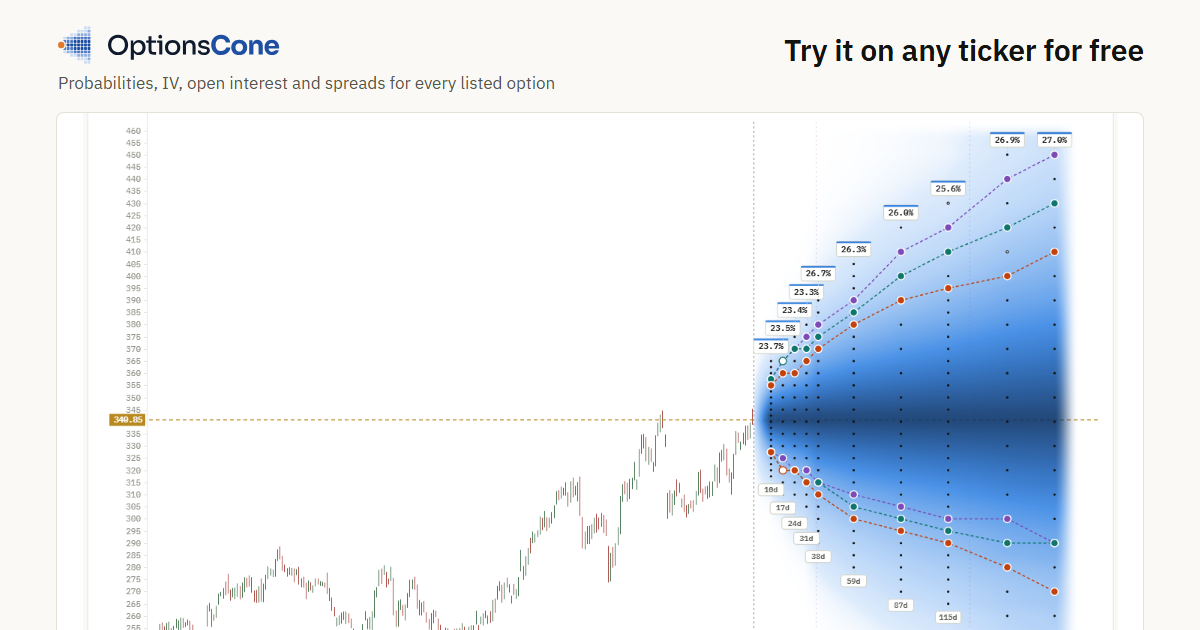
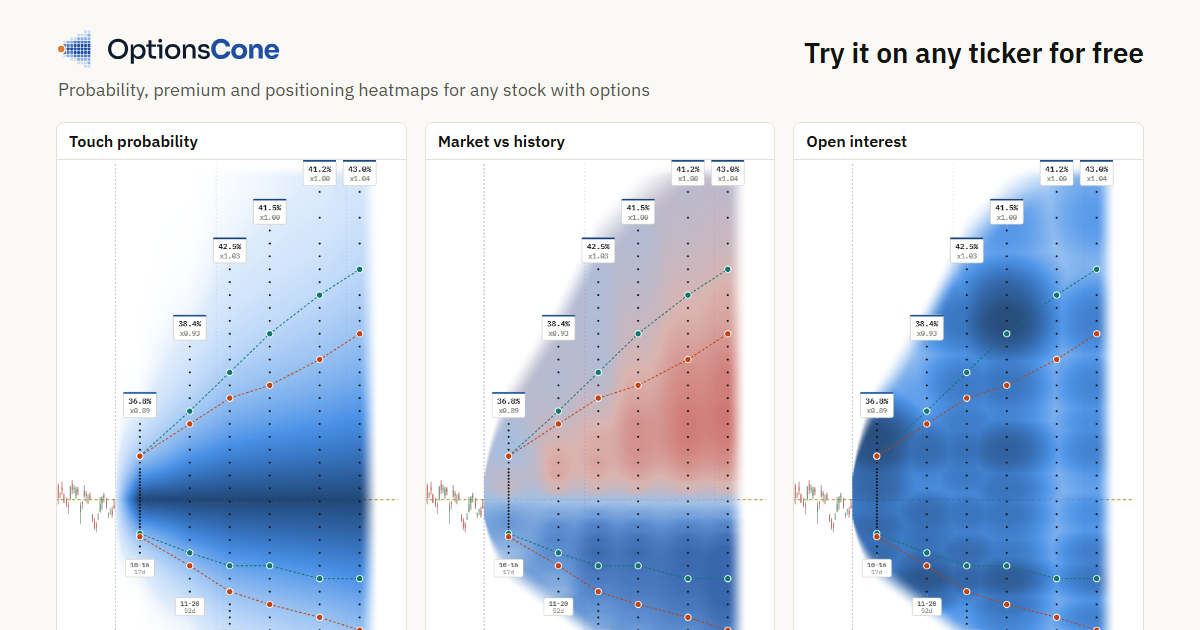
Home page: six maps for AVGO as the hero, new headline, updated questions and map descriptions

diff --git a/docs/index.html b/docs/index.html
@@ -4,16 +4,16 @@
 <meta charset="utf-8">
 <meta name="viewport" content="width=device-width, initial-scale=1">
 <title>OptionsCone: probability, premium and positioning heatmaps</title>
-<meta name="description" content="Free Windows app: probability, premium and positioning heatmaps for every listed option, measured against ten years of the stock&#39;s own history.">
+<meta name="description" content="Free Windows app: probability, premium and positioning heatmaps for any stock with options, measured against ten years of the stock&#39;s own history.">
 <link rel="canonical" href="https://nikkn.github.io/OptionsCone/">
 <meta name="google-site-verification" content="AMuyXyZixV_yJbMoVUShqFuyZB4kxgZxZLLErU_1Yw0" />
 <link rel="icon" href="brand/favicon-16.svg" type="image/svg+xml">
 <link rel="apple-touch-icon" href="brand/apple-touch-icon.png">
 <meta property="og:type" content="website">
 <meta property="og:title" content="OptionsCone: probability, premium and positioning heatmaps">
-<meta property="og:description" content="Every listed option as heatmaps on the price chart, measured against the stock&#39;s own history. Free and open source.">
+<meta property="og:description" content="The option chain as heatmaps on the price chart, measured against the stock&#39;s own history. Free and open source.">
 <meta property="og:url" content="https://nikkn.github.io/OptionsCone/">
-<meta property="og:image" content="https://nikkn.github.io/OptionsCone/img/social.png?v=4">
+<meta property="og:image" content="https://nikkn.github.io/OptionsCone/img/social.png?v=5">
 <meta property="og:image:width" content="1200">
 <meta property="og:image:height" content="630">
 <meta property="og:image:alt" content="OptionsCone: a probability cone over the listed option strikes of a stock, with implied and historical contour lines.">
@@ -35,7 +35,7 @@
   "license": "https://www.gnu.org/licenses/agpl-3.0.html",
   "downloadUrl": "https://github.com/nikkn/OptionsCone/releases/latest",
   "codeRepository": "https://github.com/nikkn/OptionsCone",
-  "screenshot": "https://nikkn.github.io/OptionsCone/img/app.png",
+  "screenshot": "https://nikkn.github.io/OptionsCone/img/avgo/app.png",
   "author": { "@type": "Person", "name": "Nikolai Alexander" }
 }
 </script>
@@ -80,8 +80,8 @@
 <div class="wrap">
 
   <div class="hero">
-    <h1>Probability, premium and positioning heatmaps for every listed option.</h1>
-    <p class="lede">OptionsCone turns the full option chain into heatmaps on the price chart: touch and expiry probabilities, implied volatility, open interest, spreads, time value and premium relative to risk for every listed strike and expiry. It compares what the option market implies with what the stock&#39;s own history says. For option traders and for anyone who holds stocks. Free and open source, for Windows.</p>
+    <h1>Probability, premium and positioning heatmaps for any stock with options.</h1>
+    <p class="lede">OptionsCone turns the option chain into heatmaps on the price chart: touch and expiry probabilities, implied volatility, open interest, spreads, time value and premium relative to risk, across the option chain of the next six months. It compares what the option market implies with what the stock&#39;s own history says. For option traders and for anyone who holds stocks. Free and open source, for Windows.</p>
     <div class="btn-row">
       <a class="btn primary" href="https://github.com/nikkn/OptionsCone/releases/latest">Download for Windows</a>
       <a class="btn" href="https://github.com/nikkn/OptionsCone">Source code</a>
@@ -89,13 +89,22 @@
     </div>
   </div>
 
-  <figure class="shot shot-hero">
-    <img src="img/app.png" width="1400" height="1318" alt="OptionsCone showing Apple (AAPL): ten years of daily candles, and to the right of today a blue probability cone over the listed strikes with implied, 5-year and 10-year contour lines at 30% touch probability.">
-  </figure>
+  <div class="maps">
+    <a class="map" href="img/avgo/chart-p.png"><span>Touch probability</span><img src="img/avgo/cone-p.png" width="550" height="840" alt="Broadcom (AVGO), Touch probability: dark near the money, fading where a touch becomes unlikely."></a>
+    <a class="map" href="img/avgo/chart-iv.png"><span>Implied volatility</span><img src="img/avgo/cone-iv.png" width="550" height="840" alt="Broadcom (AVGO), Implied volatility per contract: skew and term structure."></a>
+    <a class="map" href="img/avgo/chart-oi.png"><span>Open interest</span><img src="img/avgo/cone-oi.png" width="550" height="840" alt="Broadcom (AVGO), Open interest: where the large positions sit."></a>
+    <a class="map" href="img/avgo/chart-tv.png"><span>Time value per day</span><img src="img/avgo/cone-tv.png" width="550" height="840" alt="Broadcom (AVGO), Time value per remaining day, darkest near the money for short expiries."></a>
+    <a class="map" href="img/avgo/chart-gap.png"><span>Market vs history</span><img src="img/avgo/cone-gap.png" width="550" height="840" alt="Broadcom (AVGO), Implied minus historical touch probability: blue where the market prices more risk than history, red where less."></a>
+    <a class="map" href="img/avgo/chart-vpr.png"><span>Premium per unit risk</span><img src="img/avgo/cone-vpr.png" width="550" height="840" alt="Broadcom (AVGO), Option price relative to the average worst intrinsic value on the historical paths."></a>
+  </div>
+  <p class="maps-note">Broadcom (AVGO), 29 September 2026. Lines: the 30% touch contour from option prices (orange) and from the last five years (green). Click a map for the full chart.</p>
 
   <section>
     <p class="eyebrow">What you see</p>
     <h2>One chart for the whole option chain</h2>
+    <figure class="shot" style="margin:6px 0 28px">
+      <img src="img/avgo/app.png" width="1400" height="1318" loading="lazy" alt="OptionsCone showing Broadcom (AVGO): ten years of daily candles and, to the right of today, the probability cone over the listed strikes with the implied and the 5-year contour lines.">
+    </figure>
     <div class="grid3">
       <div class="card">
         <h3>The cone</h3>
@@ -122,26 +131,24 @@
         <h3>Build realistic scenarios</h3>
         <ul class="qlist">
           <li>How far can the stock plausibly move by a given date, up and down?</li>
-          <li>What are the chances my price target is reached?</li>
-          <li>Will a losing position get back to break-even within a few months?</li>
-          <li>How does the market's view compare with the last 5 and 10 years?</li>
+          <li>What are the chances my price target or my break-even is reached?</li>
+          <li>How much does the market price around the next earnings date?</li>
         </ul>
       </div>
       <div class="card">
         <h3>Manage risk at entry</h3>
         <ul class="qlist">
-          <li>What should I expect from this stock before opening a position, in both directions?</li>
           <li>How likely is a stop level to be hit during my holding period?</li>
-          <li>Is a stop so tight that ordinary movement will trigger it?</li>
+          <li>Where are large positions sitting, and are the quotes tight enough to trade?</li>
           <li>Is there an earnings date inside my horizon?</li>
         </ul>
       </div>
       <div class="card">
         <h3>Identify opportunities</h3>
         <ul class="qlist">
-          <li>Where do the option market and the stock's history disagree?</li>
-          <li>Is volatility high because the stock is moving, or because of an event ahead?</li>
-          <li>Which strikes carry large positions and tight quotes?</li>
+          <li>Where does the market price more risk than the stock's own history produced?</li>
+          <li>Which strikes pay a seller the most premium per unit of historical risk?</li>
+          <li>Where does time value melt fastest per day?</li>
         </ul>
       </div>
     </div>
@@ -158,38 +165,38 @@
   </section>
 
   <section>
-    <p class="eyebrow">Other views</p>
+    <p class="eyebrow">The maps</p>
     <h2>Color the cone by what matters for the trade</h2>
-    <p class="prose">The same cone can show implied volatility, open interest, the bid-ask spread, the time value per day, where the market prices more or less risk than the stock&#39;s own history, or the premium per unit of historical risk. Hover a contract for its quote, probabilities, delta and gamma.</p>
+    <p class="prose">One cone, seven ways to color it. Hover a contract for its quote, probabilities, delta and gamma; click it to keep its numbers on screen while you switch maps.</p>
     <div class="grid3">
-      <figure>
-        <a href="img/chart-iv.png"><img class="shot" src="img/cone-iv.png" width="544" height="760" loading="lazy" alt="Cone colored by implied volatility, darker where volatility is higher."></a>
-        <figcaption><strong>Implied volatility.</strong> The skew and the term structure at a glance, with the model-free volatility of each expiry in the badges.</figcaption>
-      </figure>
-      <figure>
-        <a href="img/chart-oi.png"><img class="shot" src="img/cone-oi.png" width="544" height="760" loading="lazy" alt="Cone colored by open interest, with dark patches at the strikes holding the largest positions."></a>
-        <figcaption><strong>Open interest.</strong> Where the large positions sit, on a logarithmic scale so both small and large strikes stay readable.</figcaption>
-      </figure>
-      <figure>
-        <a href="img/chart-spr.png"><img class="shot" src="img/cone-spr.png" width="544" height="760" loading="lazy" alt="Cone colored by bid-ask spread, darker where quotes are tighter."></a>
-        <figcaption><strong>Spread.</strong> Darker means tighter quotes, so the contracts you can actually trade stand out.</figcaption>
-      </figure>
+      <div class="card">
+        <h3>Implied volatility</h3>
+        <p>Each contract&#39;s own volatility, so skew and the term structure show at a glance. The badges above each expiry give its model-free volatility. <a href="img/avgo/chart-iv.png">Full chart</a></p>
+      </div>
+      <div class="card">
+        <h3>Open interest</h3>
+        <p>Where the large positions sit, on a logarithmic scale so both small and large strikes stay readable. <a href="img/avgo/chart-oi.png">Full chart</a></p>
+      </div>
+      <div class="card">
+        <h3>Spread</h3>
+        <p>Darker means tighter quotes, so the contracts you can actually trade stand out. <a href="img/avgo/chart-spr.png">Full chart</a></p>
+      </div>
     </div>
-    <h3 style="margin-top:36px">For option sellers</h3>
-    <p class="prose">Three maps answer the seller&#39;s question: which strikes pay the most for the risk taken. Click a contract to select it, then switch maps and its numbers follow.</p>
+    <h3 style="margin-top:30px">For option sellers</h3>
+    <p class="prose">Three maps answer the seller&#39;s question: which strikes pay the most for the risk taken.</p>
     <div class="grid3">
-      <figure>
-        <a href="img/chart-tv.png"><img class="shot" src="img/cone-tv.png" width="544" height="760" loading="lazy" alt="Cone colored by time value per remaining day, darkest near the money for short expiries."></a>
-        <figcaption><strong>Time value per day.</strong> The option price divided by the days left, an average over the remaining life. Every contract shown is out of the money, so its whole price is time value.</figcaption>
-      </figure>
-      <figure>
-        <a href="img/chart-gap.png"><img class="shot" src="img/cone-gap.png" width="544" height="760" loading="lazy" alt="Cone colored blue below spot and red above, comparing implied with historical touch probability."></a>
-        <figcaption><strong>vs history.</strong> The market&#39;s touch probability minus the stock&#39;s own last ten years. Blue where the market prices more risk than history produced, red where less.</figcaption>
-      </figure>
-      <figure>
-        <a href="img/chart-vpr.png"><img class="shot" src="img/cone-vpr.png" width="544" height="760" loading="lazy" alt="Cone colored by premium per unit of historical risk."></a>
-        <figcaption><strong>Premium per unit risk.</strong> The option price divided by the average intrinsic value at the worst point of each historical path. Higher means more premium for the risk history shows.</figcaption>
-      </figure>
+      <div class="card">
+        <h3>Time value per day</h3>
+        <p>The option price divided by the days left, an average over the remaining life. Every contract shown is out of the money, so its whole price is time value. <a href="img/avgo/chart-tv.png">Full chart</a></p>
+      </div>
+      <div class="card">
+        <h3>vs history</h3>
+        <p>The market&#39;s touch probability minus the stock&#39;s own last ten years. Blue where the market prices more risk than history produced, red where less. <a href="img/avgo/chart-gap.png">Full chart</a></p>
+      </div>
+      <div class="card">
+        <h3>Premium per unit risk</h3>
+        <p>The option price divided by the average intrinsic value at the worst point of each historical path. Higher means more premium for the risk history shows. <a href="img/avgo/chart-vpr.png">Full chart</a></p>
+      </div>
     </div>
   </section>
 
@@ -202,7 +209,7 @@
         <p>A data quality report shows how many quotes passed the checks, by moneyness, and the Methods section explains every calculation. Nothing is hidden behind a score.</p>
       </div>
       <figure>
-        <img class="shot" src="img/table.png" width="1384" height="823" loading="lazy" alt="Data table of touch probabilities for AAPL, strikes in rows and expiries in columns.">
+        <img class="shot" src="img/avgo/table.png" width="1384" height="823" loading="lazy" alt="Data table of touch probabilities for Broadcom (AVGO), strikes in rows and expiries in columns.">
       </figure>
     </div>
   </section>

diff --git a/docs/style.css b/docs/style.css
@@ -123,3 +123,13 @@ td:first-child { white-space: nowrap; }
 .site-foot p { margin: 0 0 6px; }
 
 .qlist { margin: 0; padding-left: 18px; color: var(--ink-2); display: grid; gap: 8px; }
+
+/* hero: six color modes */
+.maps { display: grid; grid-template-columns: repeat(3, 1fr); gap: 14px; margin-top: 8px; }
+.map { display: block; border: 1px solid var(--line); border-radius: 6px; background: var(--panel);
+  overflow: hidden; text-decoration: none; color: var(--ink); }
+.map span { display: block; font-weight: 600; font-size: 14px; padding: 9px 12px; border-bottom: 1px solid var(--line); }
+.map img { width: 100%; height: auto; display: block; }
+.map:hover { border-color: var(--ink-3); }
+.maps-note { font-size: 13.5px; color: var(--ink-3); margin-top: 10px; }
+@media (max-width: 700px) { .maps { grid-template-columns: repeat(2, 1fr); gap: 10px; } .map span { font-size: 13px; padding: 7px 9px; } }

diff --git a/docs/methods.html b/docs/methods.html
@@ -12,7 +12,7 @@
 <meta property="og:title" content="How OptionsCone calculates touch and expiry probabilities">
 <meta property="og:description" content="American binomial IV, the first-passage formula, delta vs. N(d2) and a block bootstrap with intraday highs and lows.">
 <meta property="og:url" content="https://nikkn.github.io/OptionsCone/methods.html">
-<meta property="og:image" content="https://nikkn.github.io/OptionsCone/img/social.png?v=4">
+<meta property="og:image" content="https://nikkn.github.io/OptionsCone/img/social.png?v=5">
 <meta property="og:image:width" content="1200">
 <meta property="og:image:height" content="630">
 <meta property="og:image:alt" content="OptionsCone: a probability cone over the listed option strikes of a stock, with implied and historical contour lines.">

diff --git a/docs/use-cases.html b/docs/use-cases.html
@@ -12,7 +12,7 @@
 <meta property="og:title" content="What OptionsCone can tell you before and during a trade">
 <meta property="og:description" content="Stop loss odds, break-even, price targets and market vs. history, with real numbers.">
 <meta property="og:url" content="https://nikkn.github.io/OptionsCone/use-cases.html">
-<meta property="og:image" content="https://nikkn.github.io/OptionsCone/img/social.png?v=4">
+<meta property="og:image" content="https://nikkn.github.io/OptionsCone/img/social.png?v=5">
 <meta property="og:image:width" content="1200">
 <meta property="og:image:height" content="630">
 <meta property="og:image:alt" content="OptionsCone: a probability cone over the listed option strikes of a stock, with implied and historical contour lines.">

diff --git a/docs/manual.html b/docs/manual.html
@@ -12,7 +12,7 @@
 <meta property="og:title" content="OptionsCone manual">
 <meta property="og:description" content="Installing OptionsCone, reading the probability cone and using every control.">
 <meta property="og:url" content="https://nikkn.github.io/OptionsCone/manual.html">
-<meta property="og:image" content="https://nikkn.github.io/OptionsCone/img/social.png?v=4">
+<meta property="og:image" content="https://nikkn.github.io/OptionsCone/img/social.png?v=5">
 <meta property="og:image:width" content="1200">
 <meta property="og:image:height" content="630">
 <meta property="og:image:alt" content="OptionsCone: a probability cone over the listed option strikes of a stock, with implied and historical contour lines.">

diff --git a/README.md b/README.md
@@ -6,7 +6,7 @@ answer as a cone on the price chart.
 
 **Website, manual and methods: https://nikkn.github.io/OptionsCone/**
 
-![OptionsCone showing AAPL](docs/screenshot.png)
+![OptionsCone showing Broadcom (AVGO)](docs/screenshot.png)
 
 Each dot is a listed contract. The color behind it is the probability that
 the price touches that strike before that expiry. The contour lines follow a
